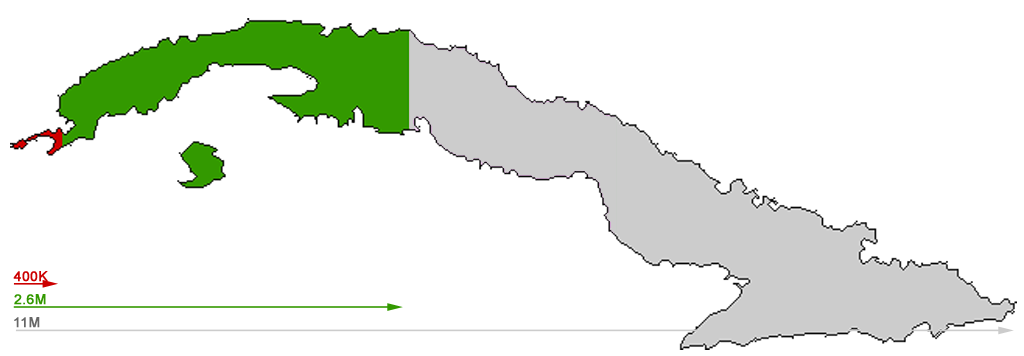
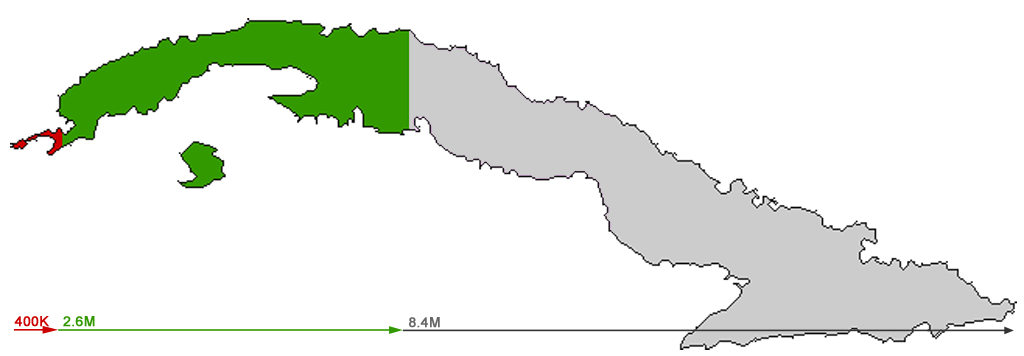
Change graphic and wording

Changed region(s): [[0.0, 0.7416, 0.4062, 0.9579], [0.375, 0.8961, 1.0, 0.9579]]

diff --git a/web/welcome.html b/web/welcome.html
@@ -70,7 +70,7 @@
 			<h1 id="problem">El problema de Cuba</h1>
 			<img style="width: 100%; margin-bottom:20px;" alt="Access in Cuba" src="static/access.png"/>
 
-			<p>En <span class="label label-danger">Rojo</span> se muestra la cantidad de Cubanos con acceso a la Web. En <span class="label label-success">Verde</span> aquellos que tienen acceso solo a mandar emails y en <span class="label label-default">Gris</span> el resto. Cuba es el pa&iacute;s con peor conectividad a Internet en nuestro hemisferio. Los cubanos solo pueden navegar mediante dial-up, y el acceso satelital a Internet esta penado por la ley. Sin embargo, mandar y recibir emails es completamente legal y el n&uacute;mero de usuarios del email crece cada d&iacute;a.</p>
+			<p>En <span class="label label-danger">Rojo</span> se muestra la cantidad de Cubanos con acceso a la Web. En <span class="label label-success">Verde</span> aquellos que tienen acceso <i>solo</i> a mandar emails y en <span class="label label-default">Gris</span> los que no tienen conexi&oacute;n alguna. Cuba es el pa&iacute;s con peor conectividad en nuestro hemisferio. Los cubanos solo pueden navegar mediante dial-up y el acceso satelital a Internet esta penado por la ley. Sin embargo, mandar y recibir emails es completamente legal y el n&uacute;mero de usuarios del email crece cada d&iacute;a.</p>
 		</div>
 
 		<div class="col-xm-12">
